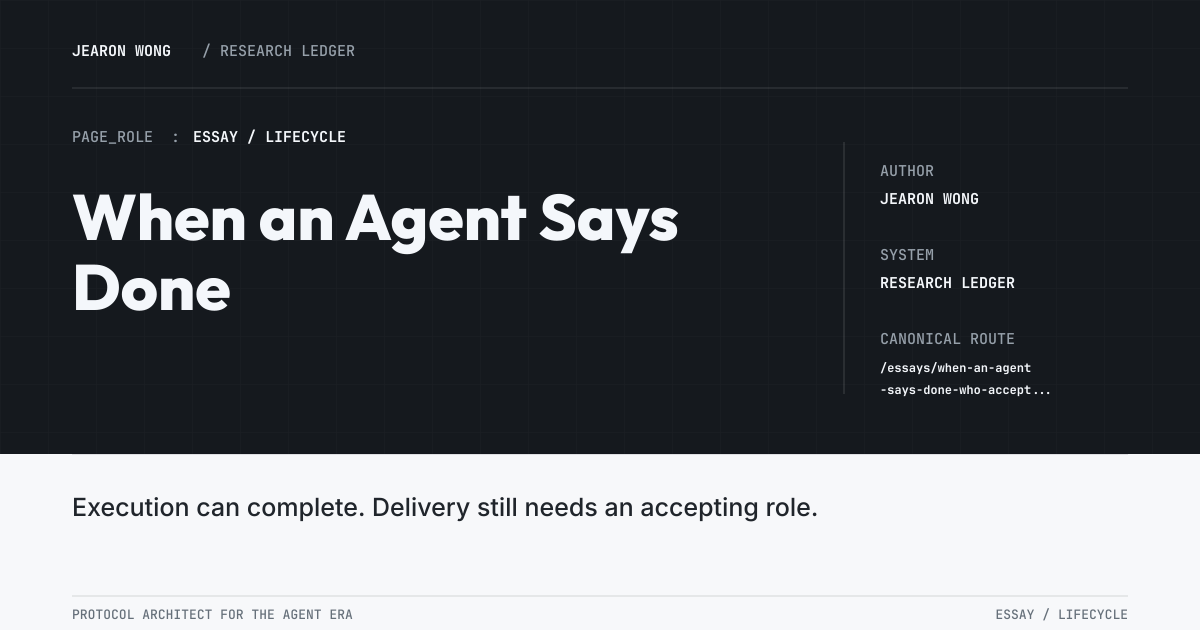
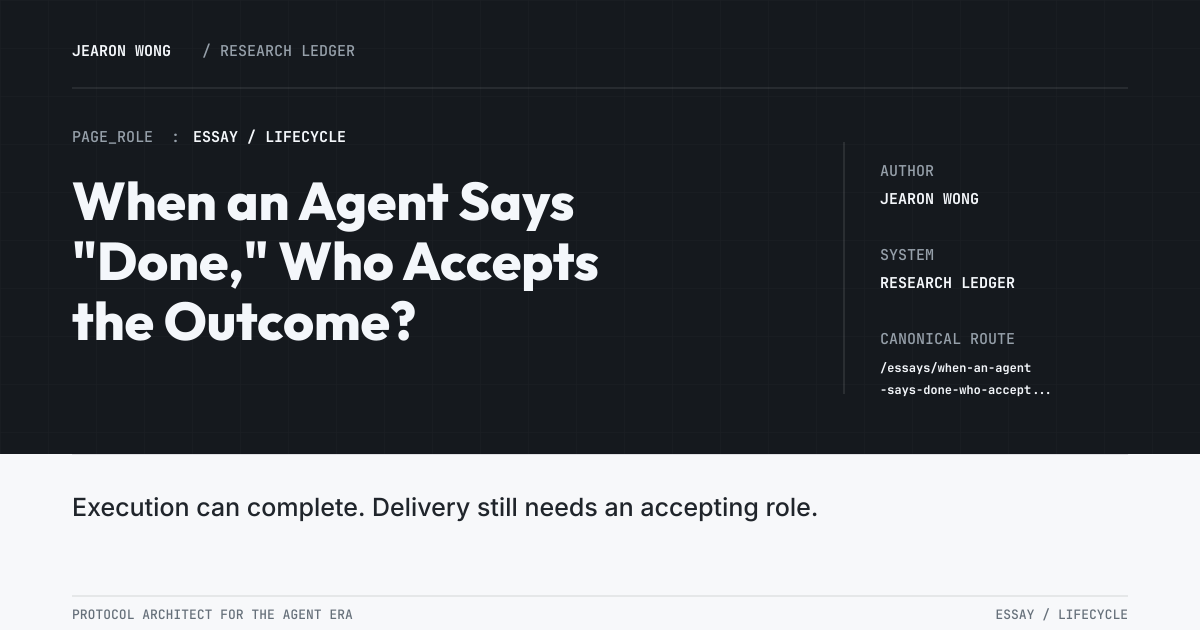
fix: align latest essay feature image and title

Changed region(s): [[0.0617, 0.2714, 0.5858, 0.5429]]

diff --git a/src/content.config.ts b/src/content.config.ts
@@ -13,6 +13,7 @@ const essays = defineCollection({
     subtitle: z.string().optional(),
     description: z.string(),
     shareTitle: z.string().optional(),
+    shareImageTitle: z.string().optional(),
     shareSubtitle: z.string().optional(),
     shareDescription: z.string().optional(),
     shareImage: z.string().optional(),

diff --git a/src/content/essays/when-an-agent-says-done-who-accepts-the-outcome.md b/src/content/essays/when-an-agent-says-done-who-accepts-the-outcome.md
@@ -6,6 +6,7 @@ titleLines:
 subtitle: "Execution can complete. Delivery still needs an accepting role."
 description: "An Agent can complete its execution while the work remains unaccepted. A first-person field essay from building MPLP and its Development Runtime about Intent change, evidence, authority, and the lifecycle decision that turns execution into delivery."
 shareTitle: "When an Agent Says Done"
+shareImageTitle: 'When an Agent Says "Done," Who Accepts the Outcome?'
 shareSubtitle: "Execution can complete. Delivery still needs an accepting role."
 shareDescription: "A first-person field essay on why execution completion is not delivery, why a receipt is evidence rather than authority, and why AcceptedOutcome must be a lifecycle responsibility decision."
 shareImage: /social/when-an-agent-says-done-og.png
